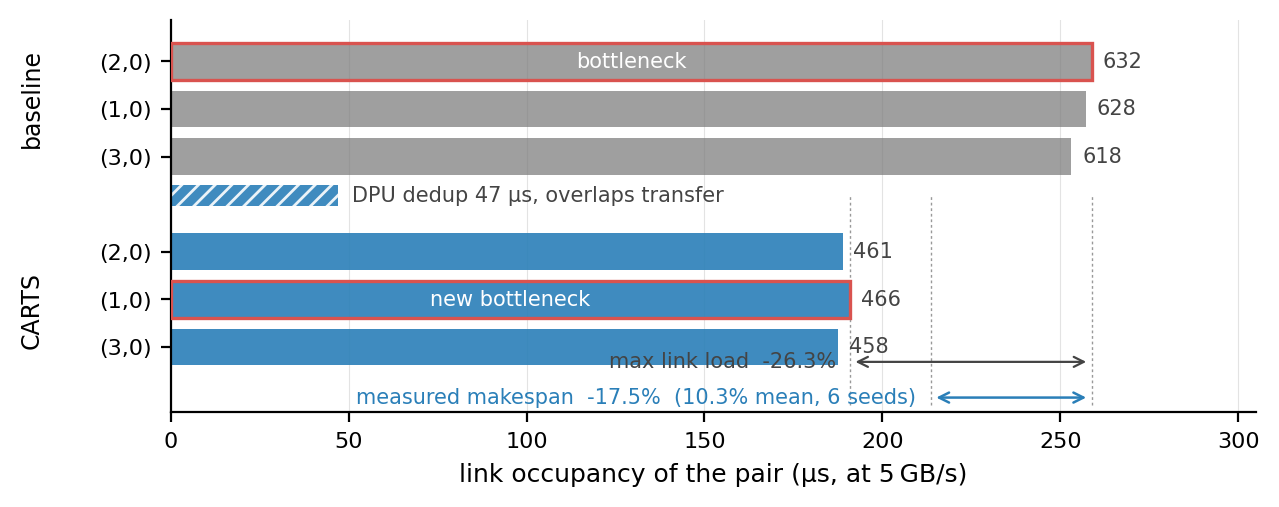
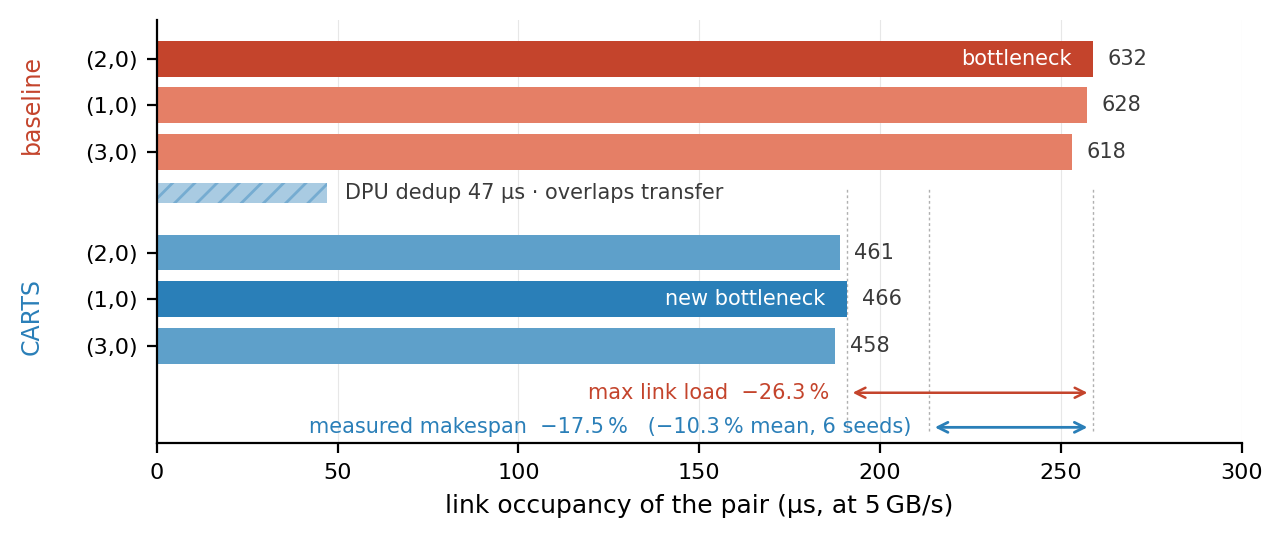
gpd=8 dual-metric ablation + M3 timeline figure
- ablation moved to the headline regime (32 GPUs, gpd=8, per-seed cap);
  C3 naive and cost-aware carried separately, anchor-gated on seed 0
- C3c multi-seed mean +10.29% (6/6 seeds), reproduces the Table IV headline
- verify_ablation_numbers.py: the old Table V paired Layer-1 from the naive
  placement (218) with Layer-2 from the cost-aware run (362250)
- fig_timeline_m3.py: bottleneck migration (2,0)->(1,0), assert-gated

diff --git a/fig_timeline_m3.py b/fig_timeline_m3.py
@@ -2,36 +2,44 @@
 """
 fig_timeline_m3.py -- M3 figure: where the byte-count saving goes.
 
-Shows the three busiest inter-domain pairs before and after deduplication at
-the headline configuration, to scale in link occupancy, so that three facts
-are visible at once: the bottleneck MIGRATES from pair (2,0) to pair (1,0);
-the DPU deduplication cost is small and overlapped; and the max-link byte
-saving (26.3%) overstates the measured completion-time saving (17.5%).
+The three busiest inter-domain pairs before and after deduplication at the
+headline configuration, drawn to scale in link occupancy, so three facts are
+visible at once: the bottleneck MIGRATES from pair (2,0) to pair (1,0); the
+DPU deduplication cost is small and overlapped; and the max-link byte saving
+(26.3%) overstates the measured completion-time saving (17.5%).
 
-Data provenance (all verified, do not edit without re-verifying):
-  lambda / unique      : dump_lambda_gpd8.py, seed 0, gpd=8, 32 GPUs
-  cycles               : ablation_gpd8_results.csv (C0 953146, C3c 786443)
-  six-seed mean        : ablation_gpd8_multiseed_results.csv (+10.29%)
-  COMP duration        : verify_fig5_timeline.py (dpu_duration_micros -> 47 us)
+Data provenance (verified; do not edit a number without re-verifying):
+  lambda / unique : dump_lambda_gpd8.py           (seed 0, gpd=8, 32 GPUs)
+  cycles          : ablation_gpd8_results.csv     (C0 953146, C3c 786443)
+  six-seed mean   : ablation_gpd8_multiseed_results.csv  (+10.29%)
+  COMP duration   : verify_fig5_timeline.py       (dpu_duration_micros -> 47)
 
-Palette is fig_style's locked series palette. NAIVE_AMBER is deliberately NOT
-used here: amber denotes naive placement in Fig 6/9 and must not be reused.
+Palette: CARTS_BLUE is fig_style's locked series blue, unchanged. The coral
+pair is the schematic figures' "inter-domain crossing" hue (Figs 1-3), used
+here for raw pre-deduplication crossings. NAIVE_AMBER and NEG_RED are
+deliberately NOT used: amber denotes naive placement and red denotes a
+regression elsewhere in the paper.
 """
 import os
 import matplotlib.pyplot as plt
 import fig_style
-from fig_style import CARTS_BLUE, C4_GRAY, NEG_RED
+from fig_style import CARTS_BLUE
+
+CORAL_HI = "#C4442C"
+CORAL_LO = "#E57F66"
+BLUE_LO = "#5EA0CA"
+INK = "#3A3A3A"
+GUIDE = "#B0B0B0"
 
 TOKEN_BYTES = 2048
 LINK_BPUS = 5000.0
 COMP_US = 47.0
 CYC_C0, CYC_C3 = 953146.0, 786443.0
 MEAN_6SEED = 10.29
-
 PAIRS = [("(2,0)", 632, 461), ("(1,0)", 628, 466), ("(3,0)", 618, 458)]
 EXP_MAXLINK_PCT = 26.27
 EXP_CYCLE_PCT = 17.49
-FIGW, FIGH = 7.0, 2.55
+FIGW, FIGH = 7.0, 2.75
 
 
 def t_us(copies):
@@ -52,69 +60,65 @@ def main():
     fig_style.apply()
     fig, ax = plt.subplots(figsize=(FIGW, FIGH))
     ax.grid(False)
-    ax.xaxis.grid(True, linewidth=0.4, alpha=0.35)
+    ax.xaxis.grid(True, linewidth=0.4, alpha=0.3)
     ax.set_axisbelow(True)
-
+    h = 0.60
     ys, labels = [], []
-    h = 0.62
+
     for i, (name, raw, ded) in enumerate(PAIRS):
-        y = 5.6 - i * 0.8
+        y = 5.7 - i * 0.78
         ys.append(y)
         labels.append(name)
-        ax.barh(y, t_us(raw), height=h, color=C4_GRAY, alpha=0.72,
-                edgecolor="none", zorder=2)
+        ax.barh(y, t_us(raw), height=h, edgecolor="none", zorder=2,
+                color=CORAL_HI if i == 0 else CORAL_LO)
+        ax.text(t_us(raw) + 4, y, "%d" % raw, va="center", fontsize=7.5,
+                color=INK)
+    ax.text(t_us(PAIRS[0][1]) - 6, 5.7, "bottleneck", va="center", ha="right",
+            fontsize=7.5, color="white", zorder=4)
+
+    ax.barh(3.45, COMP_US, height=0.34, color=CARTS_BLUE, alpha=0.40,
+            hatch="///", edgecolor=CARTS_BLUE, linewidth=0.0, zorder=2)
+    ax.text(COMP_US + 5, 3.45,
+            "DPU dedup %.0f \u00b5s \u00b7 overlaps transfer" % COMP_US,
+            va="center", ha="left", fontsize=7.5, color=INK)
+
     for i, (name, raw, ded) in enumerate(PAIRS):
-        y = 2.4 - i * 0.8
+        y = 2.45 - i * 0.78
         ys.append(y)
         labels.append(name)
-        ax.barh(y, t_us(ded), height=h, color=CARTS_BLUE, alpha=0.9,
-                edgecolor="none", zorder=2)
-
-    ax.barh(3.35, COMP_US, height=0.36, color=CARTS_BLUE, alpha=0.9,
-            hatch="////", edgecolor="white", linewidth=0.0, zorder=2)
-    ax.text(COMP_US + 4, 3.35, "DPU dedup %.0f µs, overlaps transfer" % COMP_US,
-            va="center", ha="left", fontsize=7.5, color="#444444")
-
-    for y, (name, raw, ded), val in ((5.6, PAIRS[0], PAIRS[0][1]),
-                                     (1.6, PAIRS[1], PAIRS[1][2])):
-        ax.barh(y, t_us(val), height=h, color="none",
-                edgecolor=NEG_RED, linewidth=1.2, zorder=3)
-    ax.text(t_us(PAIRS[0][1]) / 2, 5.6, "bottleneck", va="center",
-            ha="center", fontsize=7.5, color="white", zorder=4)
-    ax.text(t_us(PAIRS[1][2]) / 2, 1.6, "new bottleneck", va="center",
-            ha="center", fontsize=7.5, color="white", zorder=4)
-
-    for i, (name, raw, ded) in enumerate(PAIRS):
-        ax.text(t_us(raw) + 3, 5.6 - i * 0.8, "%d" % raw, va="center",
-                fontsize=7.5, color="#444444")
-        ax.text(t_us(ded) + 3, 2.4 - i * 0.8, "%d" % ded, va="center",
-                fontsize=7.5, color="#444444")
+        ax.barh(y, t_us(ded), height=h, edgecolor="none", zorder=2,
+                color=CARTS_BLUE if i == 1 else BLUE_LO)
+        ax.text(t_us(ded) + 4, y, "%d" % ded, va="center", fontsize=7.5,
+                color=INK)
+    ax.text(t_us(PAIRS[1][2]) - 6, 1.67, "new bottleneck", va="center",
+            ha="right", fontsize=7.5, color="white", zorder=4)
 
     ax.set_yticks(ys)
     ax.set_yticklabels(labels)
-    ax.text(-0.128, 0.80, "baseline", transform=ax.transAxes, rotation=90,
-            va="center", ha="center", fontsize=8.5)
-    ax.text(-0.128, 0.26, "CARTS", transform=ax.transAxes, rotation=90,
-            va="center", ha="center", fontsize=8.5)
-    ax.set_xlabel("link occupancy of the pair (µs, at 5\u2009GB/s)")
-    ax.set_xlim(0, 305)
-    ax.set_ylim(-0.3, 6.3)
+    ax.text(-0.115, 0.80, "baseline", transform=ax.transAxes, rotation=90,
+            va="center", ha="center", fontsize=8.5, color=CORAL_HI)
+    ax.text(-0.115, 0.30, "CARTS", transform=ax.transAxes, rotation=90,
+            va="center", ha="center", fontsize=8.5, color=CARTS_BLUE)
+    ax.set_xlabel("link occupancy of the pair (\u00b5s, at 5\u2009GB/s)")
+    ax.set_xlim(0, 300)
+    ax.set_ylim(-0.75, 6.35)
 
     x_raw, x_ded = t_us(raw_max), t_us(ded_max)
     x_cyc = x_raw * (1.0 - cyc_pct / 100.0)
-    ax.annotate("", xy=(x_raw, 0.55), xytext=(x_ded, 0.55),
-                arrowprops=dict(arrowstyle="<->", color="#444444", lw=0.8))
-    ax.text(x_ded - 4, 0.55, "max link load  -%.1f%%" % maxlink_pct,
-            va="center", ha="right", fontsize=7.5, color="#444444")
-    ax.annotate("", xy=(x_raw, -0.05), xytext=(x_cyc, -0.05),
-                arrowprops=dict(arrowstyle="<->", color=CARTS_BLUE, lw=0.9))
-    ax.text(x_cyc - 4, -0.05,
-            "measured makespan  -%.1f%%  (%.1f%% mean, 6 seeds)"
-            % (cyc_pct, MEAN_6SEED),
-            va="center", ha="right", fontsize=7.5, color=CARTS_BLUE)
     for x in (x_raw, x_ded, x_cyc):
-        ax.axvline(x, ymin=0.02, ymax=0.55, color="#999999", lw=0.5,
+        ax.axvline(x, ymin=0.03, ymax=0.60, color=GUIDE, lw=0.5,
                    ls=(0, (2, 2)), zorder=1)
+    ax.annotate("", xy=(x_raw, 0.10), xytext=(x_ded, 0.10),
+                arrowprops=dict(arrowstyle="<->", color=CORAL_HI, lw=0.9))
+    ax.text(x_ded - 5, 0.10,
+            "max link load  \u2212%.1f\u2009%%" % maxlink_pct,
+            va="center", ha="right", fontsize=7.5, color=CORAL_HI)
+    ax.annotate("", xy=(x_raw, -0.48), xytext=(x_cyc, -0.48),
+                arrowprops=dict(arrowstyle="<->", color=CARTS_BLUE, lw=1.0))
+    ax.text(x_cyc - 5, -0.48,
+            "measured makespan  \u2212%.1f\u2009%%   "
+            "(\u2212%.1f\u2009%% mean, 6 seeds)" % (cyc_pct, MEAN_6SEED),
+            va="center", ha="right", fontsize=7.5, color=CARTS_BLUE)
 
     out = os.path.join(os.path.dirname(os.path.abspath(__file__)),
                        "fig_timeline_m3.pdf")
@@ -123,8 +127,6 @@ def main():
     plt.close(fig)
     print("max link  %d -> %d   (-%.2f%%)" % (raw_max, ded_max, maxlink_pct))
     print("cycles    %d -> %d   (-%.2f%%)" % (CYC_C0, CYC_C3, cyc_pct))
-    print("times us  raw %.1f / %.1f / %.1f   dedup %.1f / %.1f / %.1f"
-          % tuple([t_us(p[1]) for p in PAIRS] + [t_us(p[2]) for p in PAIRS]))
     print("wrote %s" % out)
     return 0
 